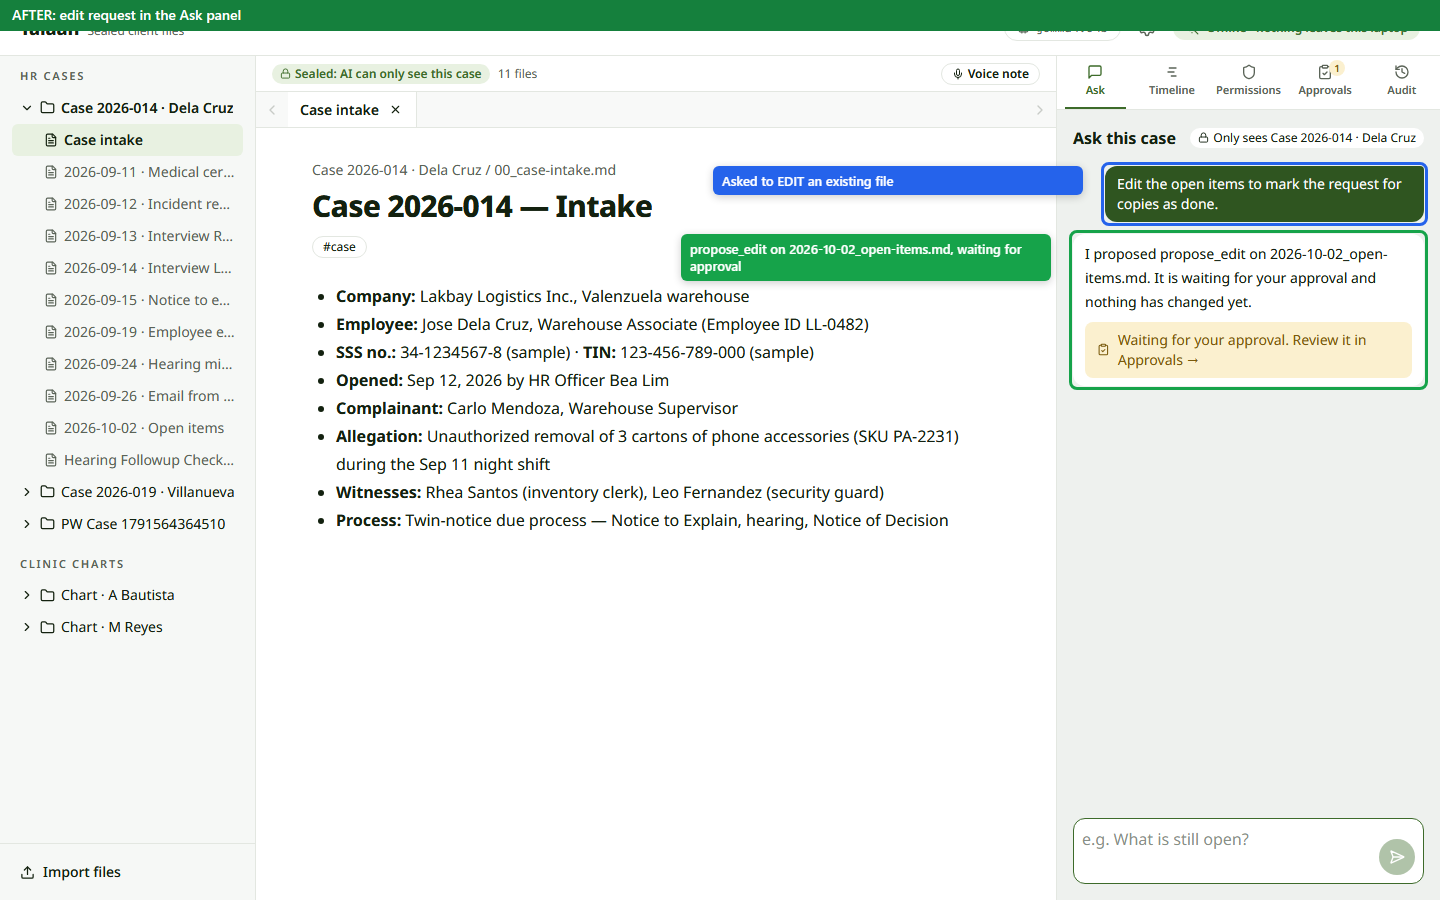
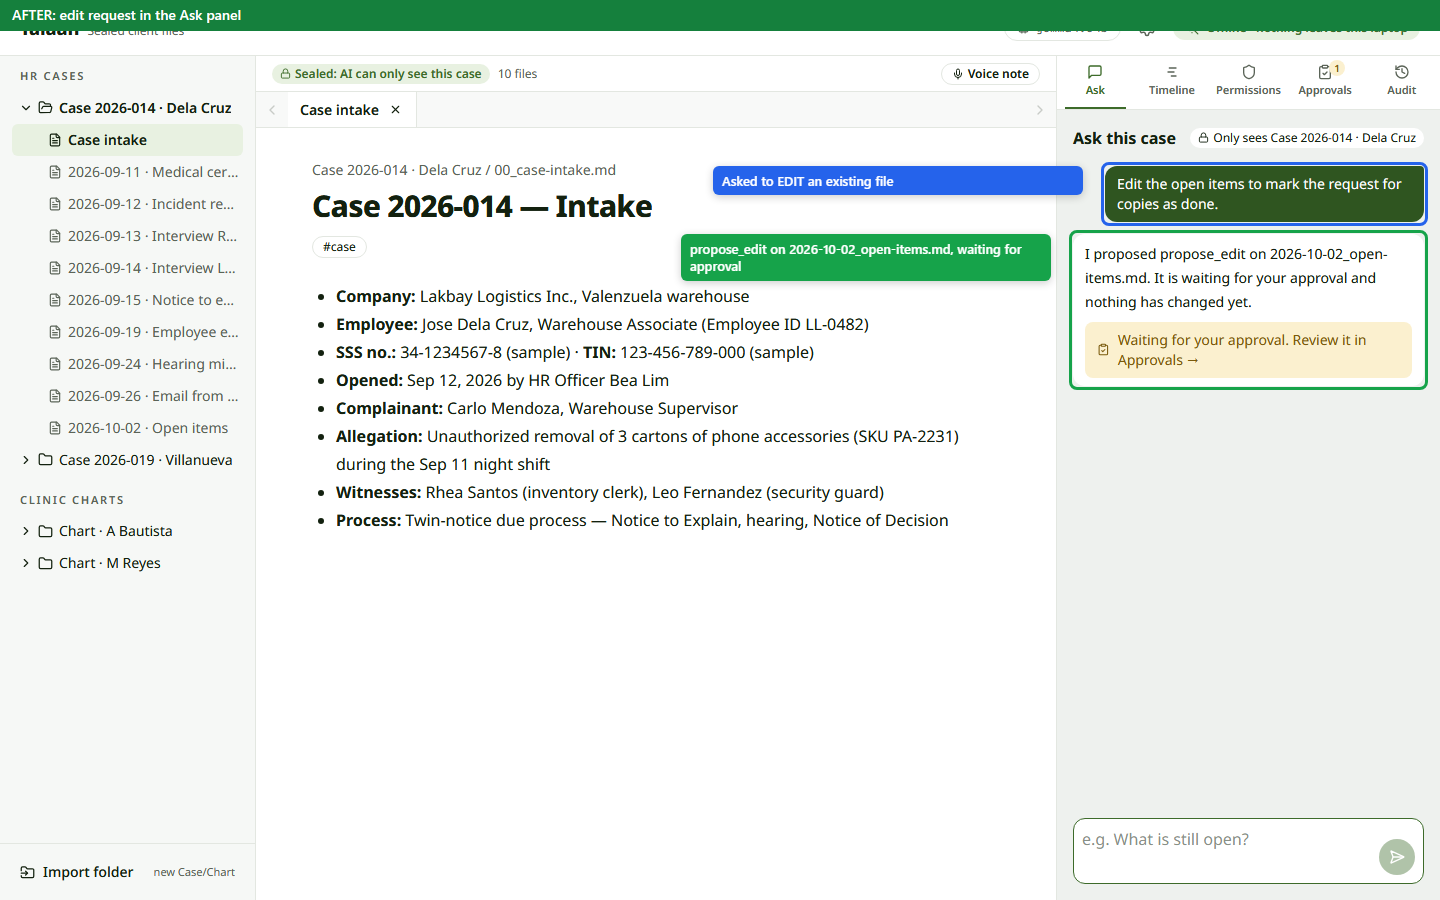
Q2: name every document in the contradiction checklist; rerun on merged dev
The model kept skipping the medical certificate after the test edit (1/8).
Listing each [S#] file in the reminder brings repeat calls to 15/16; the
first call on a new context can still drop a point, which docs/10 records
along with the final Playwright run (edit checks pass, Q2 4/5).
verify-fixes.mjs now asks Q2 on unmodified data before the edit check and
uses #24's audit list markup. Screenshots regenerated on the merged UI.

Changed region(s): [[0.0, 0.0933, 0.1562, 0.7156], [0.125, 0.9644, 0.1562, 0.9956], [0.0625, 0.9644, 0.0938, 0.9956]]

diff --git a/backend/app/ask.py b/backend/app/ask.py
@@ -249,7 +249,12 @@ def ask(folder_id: str, question: str) -> AskResponse:
         outcome = engine.handle(folder_id, raw, model_tag=r.model)
         return reply(AskResponse(answer=outcome_text(outcome), outcome=outcome, proposal_id=outcome.proposal_id), r.model)
 
-    reminder = CONTRADICTION_REMINDER if CONTRADICTION_QUESTION.search(question) else REMINDER
+    reminder = REMINDER
+    if CONTRADICTION_QUESTION.search(question):
+        # Naming every document stops the model skipping one (it dropped the medical certificate
+        # whenever it summarised the leave from the employee's own explanation instead).
+        listed = "; ".join(f"[S{i}] {h.path}" for i, h in enumerate(chosen, 1))
+        reminder = f"{CONTRADICTION_REMINDER} Check each document in turn: {listed}."
     r = client.chat(
         [{"role": "system", "content": SYSTEM.format(folder=folder.name)},
          {"role": "user", "content": f"{docs}\n\nQuestion: {question}\n\n{reminder}"}],

diff --git a/docs/10-verification.md b/docs/10-verification.md
@@ -48,24 +48,37 @@ Three bugs came out of this, all in Ask (`backend/app/ask.py`).
 
 **Before.** "Is there anything in this case that contradicts the allegation?" listed the sick leave and badge log, but not the medical certificate or the two unnamed agency helpers. Acceptance Q2 failed, as noted in B4.
 
-**Fix.** A question about contradictions (`CONTRADICTION_QUESTION`: contradict, inconsistent, conflict, discrepancy, "line up", against, weaken, undermine) gets a checklist after the question (`CONTRADICTION_REMINDER`). It asks for one cited sentence per point: leave records (filed and approved?), medical certificates, badge or access logs, anything that makes the identification uncertain, and other people present. It also says not to decide who is right. B4 had found that, for this model, reminders after the question work and a rule in the system prompt alone doesn't. With the system-prompt rule alone, the identification and agency-helper points were still missing in 5/5 runs.
+**Fix.** A question about contradictions (`CONTRADICTION_QUESTION`: contradict, inconsistent, conflict, discrepancy, "line up", against, weaken, undermine) gets a checklist after the question (`CONTRADICTION_REMINDER`). It asks for one cited sentence per point: leave records (filed and approved?), medical certificates, badge or access logs, anything that makes the identification uncertain, and other people present. It also says not to decide who is right. The checklist ends by naming every document in the context (`[S1] 2026-09-11_medical-certificate.md; …`). Without that list, the model often skipped the medical certificate and took the sick leave from the employee's own explanation. B4 had found that, for this model, reminders after the question work and a rule in the system prompt alone doesn't. With the system-prompt rule alone, the identification and agency-helper points were still missing in 5/5 runs.
 
-**After.** All five points, each cited, with no verdict.
+**After.** Usually all five points, each cited, with no verdict. **This is not fully reliable yet**, see the numbers below.
 
-![Before: Q2 misses the medical certificate and agency helpers, and shows raw Markdown](verification/before-q2.png)
-![After: Q2 covers all five points in plain sentences](verification/after-q2.png)
+![Before: Q2 gets 3 of 5 points and shows raw Markdown](verification/before-q2.png)
+![After (final Playwright run): 4 of 5 points, plain sentences](verification/after-q2.png)
 
-**Measured:** 15 of 16 Q2 runs with the final prompt passed (API runs, acceptance runs and Playwright runs). The one miss came right after a test edit had changed the open-items file and it was re-indexed. Temperature is 0, so the answer only changes when the folder's text changes.
+The "after" image is from the final Playwright run on the merged code, and it is one of the misses: the agency helpers are left out. It is left as recorded.
+
+**Measured with the final prompt** (`gemma4:e4b`, temperature 0):
+
+| Run | Result |
+|---|---|
+| API, fresh demo data, 8 calls in a row | 8/8 all five points |
+| API, after the test edit to open-items, 8 calls | 7/8 (first call missed the agency helpers) |
+| `acceptance.py`, fresh data | 1/1 pass |
+| Playwright `verify-fixes.mjs`, fresh data, Q2 is the first call | 0/1 (missed the agency helpers) |
+
+The misses are mostly the first call on a new context; repeat calls on the same context give the same answer. Before the fix, Q2 failed every acceptance run (B4: 2/2). **For the demo:** ask Q2 once during the pre-demo run so the answer on stage is the cached one, or show the timeline flags (B5), which cover the same points. If a run misses a point, say so; don't fake it.
 
 ## Bug 3 · Raw Markdown in answers
 
 **Before.** The model wrote `**CCTV Observation:**` and `*` bullets, and the Ask panel showed them as literal characters (see the before Q2 image).
 
-**Fix.** `SYSTEM` now asks for plain sentences: no bold, headings or lists. Checked in the same Q2 runs: no Markdown in any answer after the fix.
+**Fix.** `SYSTEM` now asks for plain sentences: no bold, headings or lists. Checked in the same Q2 runs: no Markdown in any answer after the fix (the Playwright check `q2-plain-text` passes).
 
 ## Acceptance after the fixes
 
-`scripts/acceptance.py` on fresh demo data: **9/9 passed** (Q1 91 s cold timeline, Q2 26 s, the rest 0.6–12.5 s). The Playwright C1–C7 suite still passes on the new code.
+`scripts/acceptance.py` on fresh demo data: **9/9 passed** (Q1 92 s cold timeline, Q2 24 s, the rest 0.7–18 s), after merging `dev` with #24 (folders-ux). The Playwright C1–C7 suite still passes on the merged UI. Its selectors were updated for #24's new import buttons and audit list; the app behaviour is unchanged. Backend: 220 passed, 2 skipped, 1 xfail. Frontend `tsc`/lint/build clean.
+
+Playwright `verify-fixes.mjs --phase after`, final run: edit checks 3/3 and plain text pass, Q2 coverage fails (see above), so the script exits 1.
 
 Run acceptance on **unmodified** demo data. After the Playwright fix check approves its edit (the Ramos item is checked off), "What is still open?" correctly drops Ramos, but in that state the model also left out the Oct 16 decision date. Reseed between runs.
 
@@ -76,7 +89,7 @@ cd backend; uv run python scripts/seed_demo.py --reset
 cd backend; uv run uvicorn app.main:app --port 8010          # with TALAAN_HOME pointing at the seeded data
 cd frontend; $env:API_TARGET="http://127.0.0.1:8010"; npx vite --port 5180
 cd e2e; npm ci; npx playwright install chromium
-cd e2e; node verify-fixes.mjs --phase after                  # exits 1 on any failed check
+cd e2e; node verify-fixes.mjs --phase after                  # Q2 first, then the edit; exits 1 on any failed check
 ```
 
 `--phase before` runs the same steps against old code without failing, and writes the `before-*.png` images. The script edits `2026-10-02_open-items.md`, so reseed afterwards. Tests for the fixes are in `backend/tests/test_ask.py` (change schema, minimal diff, no-op edit, drift repair, contradiction checklist, plain text).

diff --git a/tickets/B4-ask-with-sources.md b/tickets/B4-ask-with-sources.md
@@ -33,7 +33,7 @@ Q3, Q6, Q7 and Q8 answer correctly with the right sources; Q4 and Q9 refuse.
 
 Found in the dev verification; full write-up with annotated before/after screenshots in [docs/10-verification.md](../docs/10-verification.md).
 - **Edit requests now propose edits.** With the full Action schema, gemma4:e4b answered "edit the open items…" with `read` (4/4). A change request now gets `CHANGE_SCHEMA` (`propose_edit` | `create_draft` | `delete` only), and `ACTION_SYSTEM` says which action fits which request. `keep_untouched_lines` puts back lines the model changed by accident (dropped `> `, the final newline), so the diff shows only the requested change. A no-op edit answers "No change needed" instead of creating an empty proposal. Measured 9/9 edits → `propose_edit` with a 2-line diff; delete, follow-instructions and draft probes unchanged (12/12).
-- **Q2 covers every point.** Contradiction questions get `CONTRADICTION_REMINDER` after the question. Q2 now passes 15 of 16 runs; acceptance is **9/9**.
+- **Q2 covers more points.** Contradiction questions get `CONTRADICTION_REMINDER` plus a list of every document after the question. Acceptance is **9/9**, and repeat API calls pass 15/16. It is **not fully reliable**: the first call on a new context can still drop a point (the final Playwright run missed the agency helpers). Numbers and demo advice are in docs/10.
 - **Plain text.** `SYSTEM` forbids Markdown, which the Ask panel showed as raw `**` and `*`.
 - Tests in `tests/test_ask.py`. Playwright check: `e2e/verify-fixes.mjs`.
 
